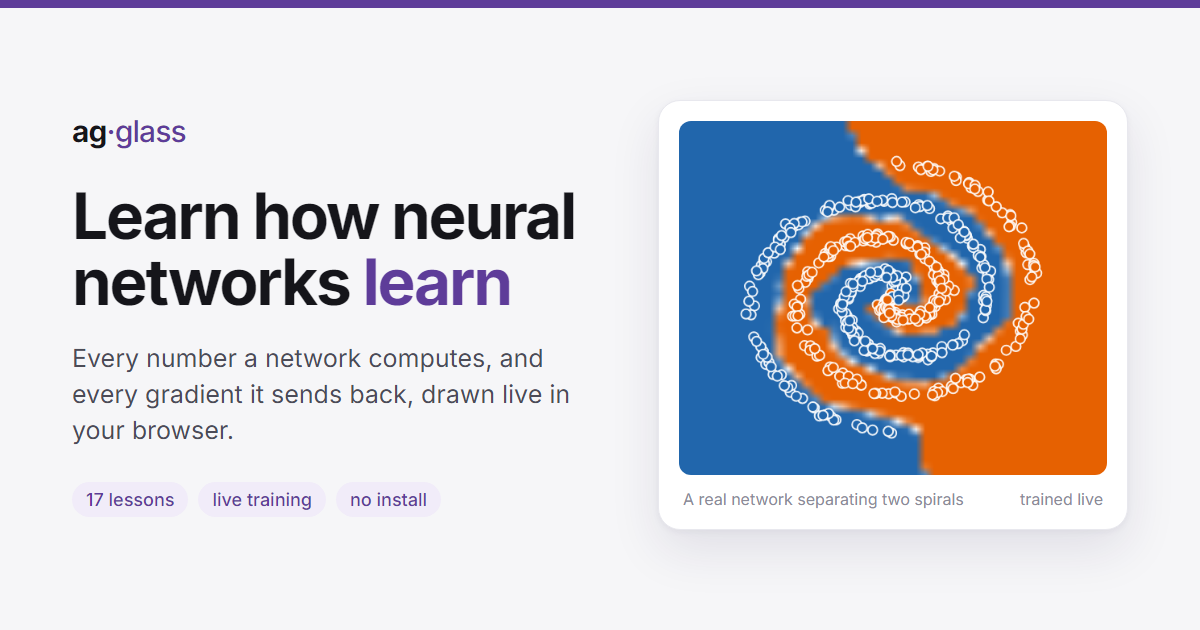
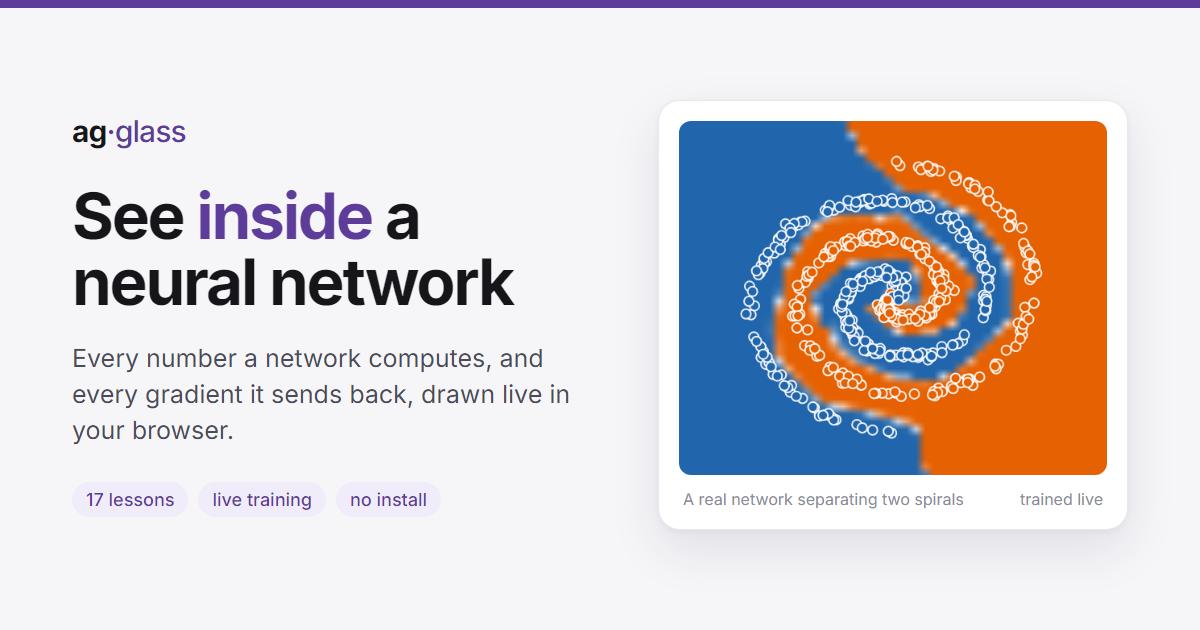
feat(web): new headline and a live network in the hero
The home page opens with a small network that draws itself in, then
loops a forward pass in blue and the gradients back in orange. Still
when the visitor prefers reduced motion. Share card and tags follow
the new headline.

diff --git a/web/src/components/HeroNet.tsx b/web/src/components/HeroNet.tsx
@@ -1,0 +1,63 @@
+// The home page's picture: a small network that draws itself in, then loops
+// the training cycle the site is about. A forward pass sweeps left to right
+// in blue, the gradients sweep back right to left in orange. Pure CSS
+// animation (styles.css, .hero-net); still for prefers-reduced-motion.
+
+import type { CSSProperties } from 'react';
+
+const LAYERS = [3, 5, 5, 2];
+const W = 440, H = 320, PAD_X = 36, PAD_Y = 34;
+const STAGE = 0.32;          // seconds between one layer and the next
+const BACK = 2.6;            // when the backward sweep starts in the cycle
+
+const x = (l: number) => PAD_X + (l * (W - 2 * PAD_X)) / (LAYERS.length - 1);
+const y = (l: number, i: number) => {
+  const n = LAYERS[l], gap = Math.min(62, (H - 2 * PAD_Y) / (n - 1 || 1));
+  return H / 2 + (i - (n - 1) / 2) * gap;
+};
+// fixed pseudo-random weights: the same picture every load
+const weight = (l: number, i: number, j: number) => Math.sin(12.9898 * (l + 1) + 78.233 * (i + 1) + 37.719 * (j + 1)) * 0.5 + 0.5;
+
+const last = LAYERS.length - 1;
+const delays = (fwd: number, bwd: number) => ({ '--df': `${fwd}s`, '--db': `${bwd}s` }) as CSSProperties;
+
+export function HeroNet() {
+  const edges = [], nodes = [];
+  for (let l = 0; l < last; ++l)
+    for (let i = 0; i < LAYERS[l]; ++i)
+      for (let j = 0; j < LAYERS[l + 1]; ++j) {
+        const w = weight(l, i, j);
+        const d = { x1: x(l), y1: y(l, i), x2: x(l + 1), y2: y(l + 1, j) };
+        // an edge lights between its two layers: forward after layer l, backward after layer l + 1
+        const style = { ...delays((l + 0.5) * STAGE, BACK + (last - l - 0.5) * STAGE), '--in': `${0.15 + l * 0.12}s`, strokeWidth: 0.6 + 1.8 * w } as CSSProperties;
+        edges.push(
+          <g key={`${l}-${i}-${j}`} className="hn-edge" style={style}>
+            <line {...d} className="hn-base" />
+            <line {...d} className="hn-f" />
+            <line {...d} className="hn-b" />
+          </g>,
+        );
+      }
+  for (let l = 0; l <= last; ++l)
+    for (let i = 0; i < LAYERS[l]; ++i) {
+      const style = { ...delays(l * STAGE, BACK + (last - l) * STAGE), '--in': `${l * 0.12 + i * 0.03}s` } as CSSProperties;
+      const r = l === 0 || l === last ? 9 : 10;
+      nodes.push(
+        <g key={`${l}-${i}`} className="hn-node" style={style} transform={`translate(${x(l)} ${y(l, i)})`}>
+          <circle r={r} className="hn-base" />
+          <circle r={r} className="hn-f" />
+          <circle r={r} className="hn-b" />
+        </g>,
+      );
+    }
+  return (
+    <svg className="hero-net" viewBox={`0 0 ${W} ${H}`} role="img" aria-label="A small neural network: values flow forward in blue, gradients flow back in orange">
+      <g>{edges}</g>
+      <g>{nodes}</g>
+      <g className="hn-labels">
+        <text x={x(0)} y={H - 4}>input</text>
+        <text x={x(last)} y={H - 4}>output</text>
+      </g>
+    </svg>
+  );
+}

diff --git a/web/src/styles.css b/web/src/styles.css
@@ -291,6 +291,26 @@ main { flex: 1; padding: 28px 24px 56px; width: 100%; max-width: 1400px; margin:
 .hero h1 span { color: var(--accent); }
 .hero p { font-size: 17px; color: var(--ink-2); max-width: 600px; line-height: 1.55; margin: 0 0 22px; }
 .hero-actions { display: flex; gap: 10px; flex-wrap: wrap; }
+
+/* the home page's network: draws itself in, then loops forward (blue) and backward (orange) */
+.hero { display: grid; grid-template-columns: 1fr 420px; gap: 40px; align-items: center; }
+.hero-net { width: 100%; height: auto; display: block; overflow: visible; }
+.hero-net .hn-base { stroke: var(--line-strong); }
+.hero-net .hn-node .hn-base { fill: var(--panel); stroke-width: 1.5; }
+.hero-net .hn-f, .hero-net .hn-b { opacity: 0; }
+.hero-net .hn-edge .hn-f { stroke: var(--forward); }
+.hero-net .hn-edge .hn-b { stroke: var(--backward); }
+.hero-net .hn-node .hn-f { fill: var(--forward); }
+.hero-net .hn-node .hn-b { fill: var(--backward); }
+.hero-net .hn-edge, .hero-net .hn-node { animation: hn-in 0.6s ease-out var(--in) both; }
+.hero-net .hn-f { animation: hn-flash 5.2s ease-in-out calc(var(--df) + 1.4s) infinite; }
+.hero-net .hn-b { animation: hn-flash 5.2s ease-in-out calc(var(--db) + 1.4s) infinite; }
+.hero-net .hn-labels text { font-size: 12px; fill: var(--muted); text-anchor: middle; }
+@keyframes hn-in { from { opacity: 0; } to { opacity: 1; } }
+@keyframes hn-flash { 0% { opacity: 0; } 7% { opacity: 0.95; } 24% { opacity: 0; } 100% { opacity: 0; } }
+@media (prefers-reduced-motion: reduce) {
+  .hero-net .hn-edge, .hero-net .hn-node, .hero-net .hn-f, .hero-net .hn-b { animation: none; }
+}
 a.button { display: inline-block; text-decoration: none; border: 1px solid var(--line-strong); background: var(--panel); border-radius: 10px; padding: 10px 18px; color: var(--ink); font-weight: 500; }
 a.button.primary { background: var(--accent); border-color: var(--accent); color: #fff; }
 .level { margin-top: 44px; }
@@ -352,6 +372,7 @@ a.button.primary { background: var(--accent); border-color: var(--accent); color
 
 /* ── narrow screens ─────────────────────────────────────────────────────── */
 @media (max-width: 1100px) {
+  .hero { grid-template-columns: 1fr 340px; gap: 28px; }
   .span-7, .span-5 { grid-column: span 12; }
   .span-4 { grid-column: span 6; }
   .lab-head { grid-template-columns: 1fr; }
@@ -375,6 +396,8 @@ a.button.primary { background: var(--accent); border-color: var(--accent); color
   .lesson-list { grid-template-columns: 1fr; }
   .preset-section { grid-template-columns: 1fr; gap: 10px; }
   .hero h1 { font-size: 32px; }
+  .hero { grid-template-columns: 1fr; gap: 8px; }
+  .hero-net { max-width: 340px; margin: 0 auto; }
   .lab-head h1 { font-size: 25px; }
   .lesson h1 { font-size: 27px; }
 }

diff --git a/web/index.html b/web/index.html
@@ -3,8 +3,8 @@
   <head>
     <meta charset="UTF-8" />
     <meta name="viewport" content="width=device-width, initial-scale=1.0" />
-    <meta name="description" content="Learn how neural networks learn: every number a network computes, and every gradient it sends back, drawn live in your browser." />
-    <title>ag · glass: learn how neural networks learn</title>
+    <meta name="description" content="See inside a neural network: every number a network computes, and every gradient it sends back, drawn live in your browser." />
+    <title>ag · glass: see inside a neural network</title>
     <link rel="canonical" href="https://ag-glass-box.vercel.app/" />
     <link rel="icon" href="/favicon.svg" type="image/svg+xml" />
     <link rel="apple-touch-icon" href="/apple-touch-icon.png" />
@@ -14,14 +14,14 @@
     <meta property="og:type" content="website" />
     <meta property="og:site_name" content="ag · glass" />
     <meta property="og:url" content="https://ag-glass-box.vercel.app/" />
-    <meta property="og:title" content="Learn how neural networks learn" />
+    <meta property="og:title" content="See inside a neural network" />
     <meta property="og:description" content="Every number a network computes, and every gradient it sends back, drawn live in your browser. 17 lessons, live training, nothing to install." />
     <meta property="og:image" content="https://ag-glass-box.vercel.app/og.png" />
     <meta property="og:image:width" content="1200" />
     <meta property="og:image:height" content="630" />
     <meta property="og:image:alt" content="ag · glass: a neural network separating two spirals, trained live in the browser" />
     <meta name="twitter:card" content="summary_large_image" />
-    <meta name="twitter:title" content="Learn how neural networks learn" />
+    <meta name="twitter:title" content="See inside a neural network" />
     <meta name="twitter:description" content="Every number a network computes, and every gradient it sends back, drawn live in your browser." />
     <meta name="twitter:image" content="https://ag-glass-box.vercel.app/og.png" />
     <link rel="preconnect" href="https://fonts.googleapis.com" />

diff --git a/web/src/components/Landing.tsx b/web/src/components/Landing.tsx
@@ -5,6 +5,7 @@ import { PRESETS } from '../graph/presets.ts';
 import type { PresetMode } from '../graph/presets.ts';
 import { MODE_INTRO } from '../content/help.tsx';
 import { LESSONS, LEVELS } from '../content/lessons/index.ts';
+import { HeroNet } from './HeroNet.tsx';
 
 const SECTIONS: { mode: PresetMode; title: string }[] = [
   { mode: 'step', title: 'Step through' },
@@ -16,16 +17,19 @@ export function Landing() {
   return (
     <div className="landing">
       <header className="hero">
-        <span className="eyebrow">A course you can watch</span>
-        <h1>Learn how neural networks <span>learn</span></h1>
-        <p>
-          From first principles to modern training, with every idea drawn live: each number a network computes and every
-          gradient it sends back, on a small engine running in your browser.
-        </p>
-        <div className="hero-actions">
-          <a className="button primary" href={`#lesson=${LESSONS[0].id}`}>Start with lesson 1 →</a>
-          <a className="button" href="#preset=moons">Watch a network train</a>
+        <div className="hero-text">
+          <span className="eyebrow">A course you can watch</span>
+          <h1>See <span>inside</span> a neural network</h1>
+          <p>
+            From first principles to modern training, with every idea drawn live: each number a network computes and every
+            gradient it sends back, on a small engine running in your browser.
+          </p>
+          <div className="hero-actions">
+            <a className="button primary" href={`#lesson=${LESSONS[0].id}`}>Start with lesson 1 →</a>
+            <a className="button" href="#preset=moons">Watch a network train</a>
+          </div>
         </div>
+        <HeroNet />
       </header>
 
       {LEVELS.map((lv) => {

diff --git a/web/scripts/og.ts b/web/scripts/og.ts
@@ -79,7 +79,7 @@ function card(png: string) {
 </style></head><body>
   <div>
     <div class="brand">ag<span>·glass</span></div>
-    <h1>Learn how neural networks <span>learn</span></h1>
+    <h1>See <span>inside</span> a neural network</h1>
     <p>Every number a network computes, and every gradient it sends back, drawn live in your browser.</p>
     <div class="tags"><b>17 lessons</b><b>live training</b><b>no install</b></div>
   </div>
